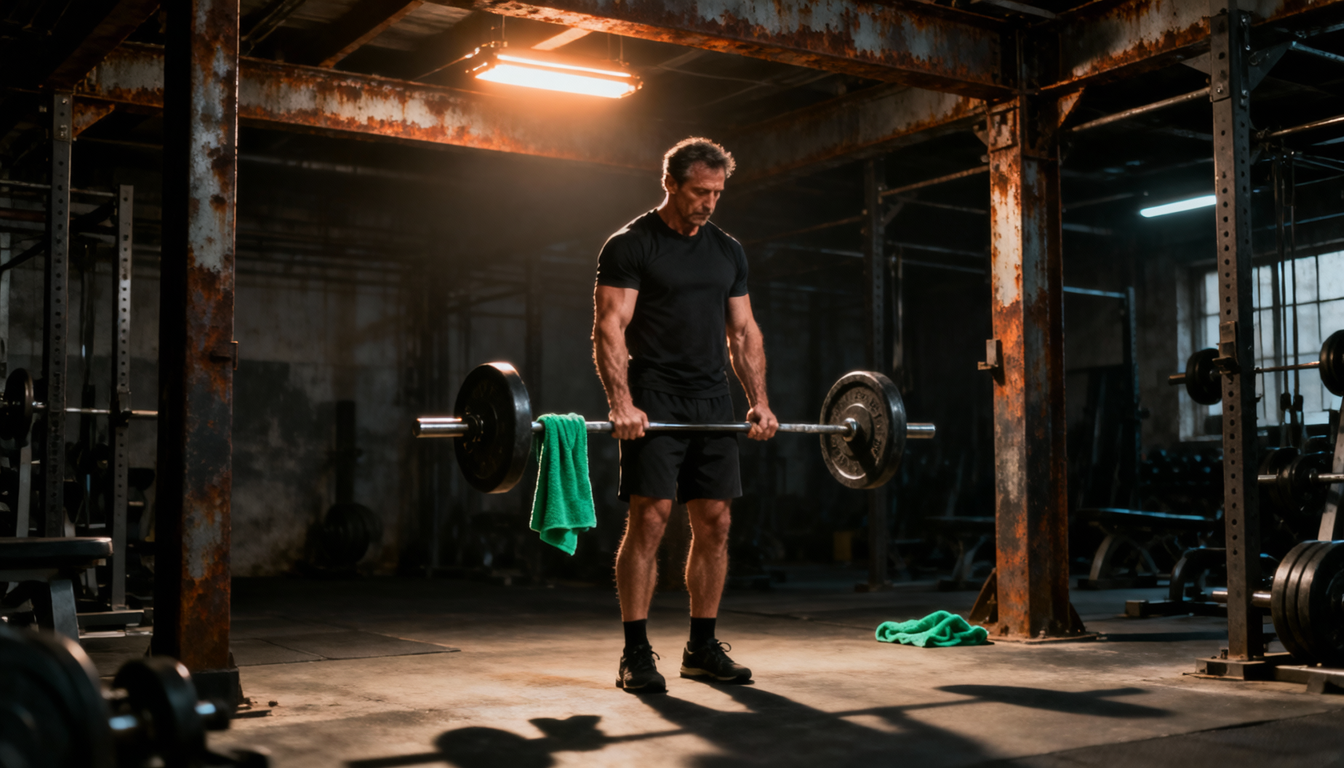
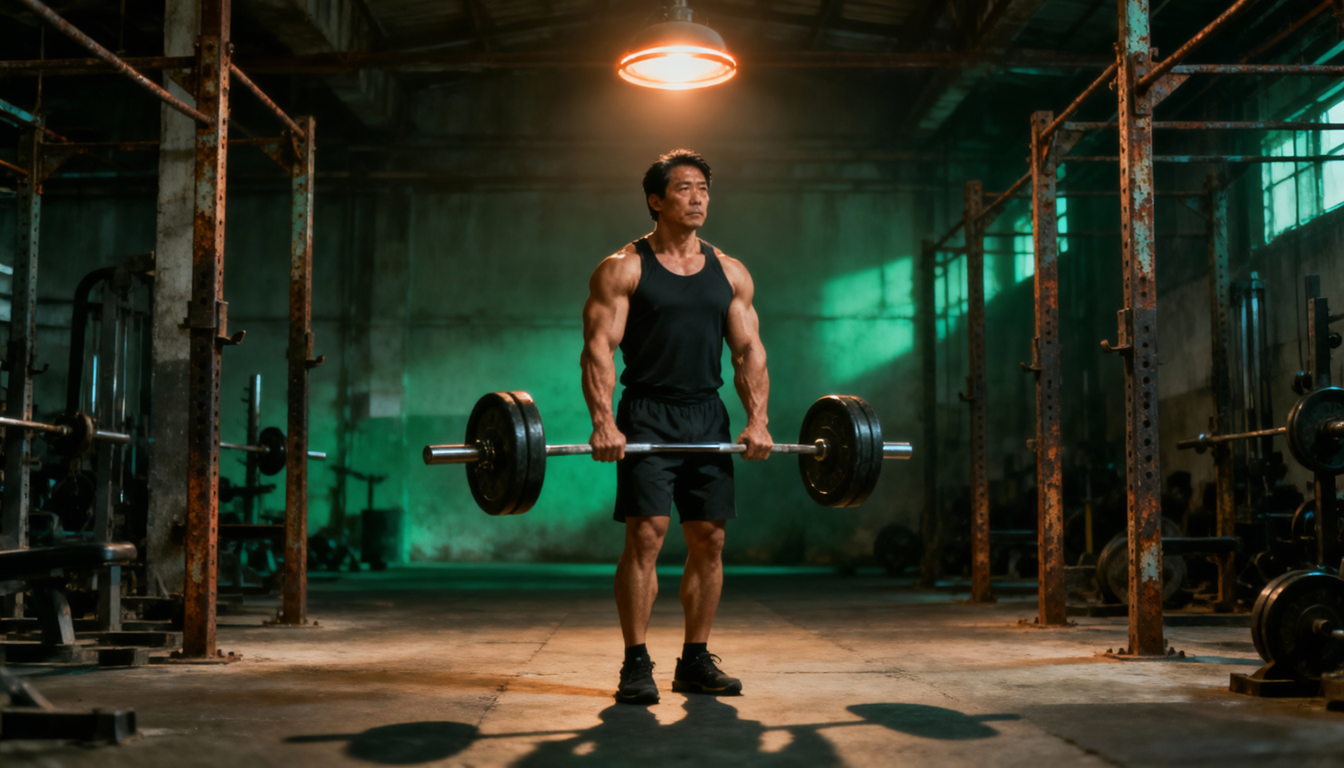
Regenerate start40 cover with mixed-heritage subject; add ethnicity + palette rules to prompt file

diff --git a/scripts/prompts_dashscope.py b/scripts/prompts_dashscope.py
@@ -2,16 +2,30 @@
 
 Style: dark, cinematic, moody, photorealistic-illustrative fitness imagery.
 Each prompt is self-contained (no text overlays — text is rendered by Hugo/CSS).
+
+⚠ ETHNICITY RULE (Vincent, 2026-08): any subject who is a PERSON must be
+drawn as ethnically ambiguous — plausibly Asian, Western, or mixed heritage.
+The audience is men 30-55 across markets (EN + ZH), so no single-ethnicity
+read. Always include phrasing like "mixed East Asian and Western heritage,
+ambiguous ethnicity" on any human subject.
+
+⚠ PALETTE (see traindecade skill): the site is warm editorial (cream/ink/jade),
+NOT navy/crimson. The "hero" prompt below predates that decision and is
+superseded — hero is now a stock photo (static/images/hero.jpg). Do not use
+the navy/crimson "hero" prompt for new art.
 """
 PROMPTS = {
     # Home hero — broad, motivational, "long game" theme
+    # (Superseded: hero is now a static/images/hero.jpg stock photo. Kept for
+    #  reference only — do NOT regenerate from this prompt without updating palette.)
     "hero": (
-        "Cinematic wide shot of a seasoned man in his late 40s, muscular and "
-        "weathered, chalk dust on his hands, standing in a dim industrial gym lit "
-        "by a single dramatic overhead beam of light. Deep navy and charcoal tones, "
-        "crimson rim lighting along his silhouette, volumetric light rays through "
-        "dust, moody chiaroscuro, film grain, epic and quiet determination, "
-        "photorealistic, shallow depth of field, 16:9 composition, no text, no watermark"
+        "Cinematic wide shot of a seasoned man in his late 40s of mixed East "
+        "Asian and Western heritage with ambiguous ethnicity, standing in a dim "
+        "industrial gym lit by a single dramatic overhead beam of light. Deep "
+        "shadow and warm editorial tones, jade green rim lighting along his "
+        "silhouette, volumetric light rays through dust, moody chiaroscuro, film "
+        "grain, epic and quiet determination, photorealistic, shallow depth of "
+        "field, 16:9 composition, no text, no watermark"
     ),
     # Welcome / brand anchor — the decade-long journey
     "welcome": (

diff --git a/content/posts/why-crash-diets-fail.md b/content/posts/why-crash-diets-fail.md
@@ -1,0 +1,74 @@
+---
+title: "Why Crash Diets Fail"
+date: 2026-08-22T00:00:00+08:00
+draft: false
+tags: ["nutrition", "weight loss", "metabolism", "fat loss"]
+description: "Cut to 1,200 calories and the weight comes off fast — then it comes back, usually with more. The metabolic science behind why crash diets rebound, and what actually works instead."
+cover:
+  image: "cover-crash-diet.png"
+  alt: "Why Crash Diets Fail"
+---
+
+The pitch is always the same, and it works every January. *Lose 10 kilograms in 6 weeks. Eat 1,200 calories a day. No exceptions, no excuses.* And for a few weeks, it looks like it works — the number on the scale drops fast, the before-and-after photo gets posted, and the diet industry collects another testimonial.
+
+Then the rebound comes. Quietly at first, then all at once. Within a year or two, most people have regained most of what they lost, and a meaningful number end up heavier than when they started.
+
+The failure was never a lack of discipline. It was biology, running exactly as it's designed to.
+
+## The body doesn't know you're "dieting"
+
+Here's the thing a crash diet never tells you: your body can't tell the difference between a 6-week transformation challenge and a famine. It only sees a sudden, steep shortage of energy — and it responds the way a body evolved to respond to starvation. It defends itself.
+
+That defense works on three fronts, and all three point the same direction: back toward your old weight.
+
+**Your metabolism slows to a crawl.** This is the phenomenon researchers call *adaptive thermogenesis* — the drop in resting metabolic rate that goes beyond what a smaller body would explain. Cut calories hard enough, and your body doesn't just burn less because there's less of you. It burns less because it has *decided to burn less*. It downregulates thyroid hormone, it runs cooler, it economizes everywhere it can.
+
+**Your hunger turns up, not down.** Leptin — the hormone that tells your brain "we have enough stored energy" — drops steeply with every kilogram of fat lost. Ghrelin, the hunger signal, rises. The result is a body that is simultaneously *more hungry* and *less satisfied* by the same meal than it was before the diet.
+
+**Your muscle goes with the fat.** The steeper the deficit, the more of the lost weight is lean tissue rather than fat. You end up smaller but softer — a scaled-down version of the body you were trying to fix.
+
+None of this is failure of willpower. It's a coordinated biological response, and it doesn't switch off when the diet ends.
+
+## The evidence that should scare you (but not into despair)
+
+The best-documented example is the *Biggest Loser* study, and it's worth understanding because it's the cleanest look we have at what extreme dieting actually does to a metabolism.
+
+Fourteen contestants were measured at the end of the competition and again **six years later** (Fothergill et al., 2016). What the researchers found was striking: even after most of the contestants had regained much of the weight, their resting metabolic rate stayed suppressed — about **500 calories a day below** what their body size and composition would predict. The metabolic adaptation was measured at −499 ± 207 kcal/day. Six years. The body had not "reset." It had quietly, permanently, learned to run on a smaller engine.
+
+The hunger side is just as persistent. A landmark study by Sumithran and colleagues (2011, *New England Journal of Medicine*) followed dieters for a full year after a 10-week very-low-energy diet. Twelve months later, their ghrelin was still elevated, their leptin and the satiety hormones PYY and CCK were still suppressed, and their self-reported hunger was still higher than before dieting. A year after the diet was over, the body was *still* campaigning to get the weight back.
+
+And the population data tells the same story. A meta-analysis of long-term weight-loss studies (Anderson et al., 2001) found that more than half of lost weight is typically regained within two years, and more than 80% within five.
+
+That's the villain here — not the person on the diet. It's a system that sells a *loss phase* with no plan for the biological cascade that comes after.
+
+## Why the diet itself is the problem
+
+The uncomfortable truth is that the *speed* of the cut — not the cut itself — is what triggers the cascade. A modest deficit doesn't set off the full famine response. A starvation-level deficit does.
+
+Consider the muscle. A study of calorie-restricted adults (Weiss et al., 2017) found that a ~7% weight loss through diet alone — with no exercise — cost roughly **4% of lower-body lean mass**. The same weight loss done with exercise preserved it almost entirely. The crash diet, almost by definition, skips the part that protects muscle: slow, progressive training.
+
+And the metabolic hit scales with the size of the deficit. Research on adaptive thermogenesis consistently shows that roughly a **10% weight reduction produces about a 15% drop in total daily energy expenditure** — around 375 calories a day for someone eating 2,500. That's not a small detail. That's the gap between "maintaining" and "silently regaining" when the diet ends and normal eating resumes.
+
+The crash diet doesn't fail because you're weak. It fails because it's *designed* to trigger the exact physiology that guarantees rebound.
+
+## What actually works
+
+The honest fix is almost boring, because it's the opposite of the pitch:
+
+- **Cut slow.** A deficit of 200–400 calories a day — enough to lose fat, shallow enough to stay out of famine mode. Think months, not weeks.
+- **Protect the muscle.** Progressive resistance training and adequate protein (around 1.6 g per kilogram) tell your body to burn fat instead of lean tissue.
+- **Plan the phase after the phase.** The loss is only half the job. Maintenance is a *continuation*, not a reward — and it starts while you're still losing.
+
+The people who keep weight off aren't more disciplined than you. They just never asked their body to survive a famine in the first place.
+
+A decade is coming either way. The question is whether you spend it oscillating on a crash-diet loop — or building a body that doesn't need rescuing.
+
+---
+
+## Sources
+
+- **Fothergill E, Guo J, Howard L, et al. (2016)** — "Persistent metabolic adaptation 6 years after 'The Biggest Loser' competition." *Obesity*. Resting metabolic rate remained ~500 kcal/day below expected six years after extreme weight loss, despite substantial weight regain (mean metabolic adaptation −499 ± 207 kcal/day). The metabolic slowdown from crash dieting can persist for years.
+- **Sumithran P, Prendergast LA, Delbridge E, et al. (2011)** — "Long-Term Persistence of Hormonal Adaptations to Weight Loss." *New England Journal of Medicine*. One year after a 10-week very-low-energy diet, ghrelin remained elevated and leptin, PYY, and CCK remained suppressed relative to baseline — hunger stayed amplified, satiety stayed blunted.
+- **Anderson JW, Konz EC, Frederich RC, Wood CL (2001)** — "Long-term weight-loss maintenance: a meta-analysis of US studies." *American Journal of Clinical Nutrition*. More than half of lost weight is typically regained within two years, and more than 80% within five.
+- **Weiss EP, et al. (2017)** — "Effects of Weight Loss on Lean Mass, Strength, Bone, and Aerobic Capacity in Adults." Calorie-restriction-only weight loss (~7%) reduced lower-body lean mass ~4%; matched weight loss with exercise preserved lean mass.
+- **Adaptive thermogenesis (review, StatPearls / NCBI)** — A ~10% body-weight reduction produces roughly a 15% decrease in total daily energy expenditure (~375 kcal/day at a 2,500 kcal intake), driven by calorie restriction rather than exercise-induced weight loss.

diff --git a/content/zh/posts/why-crash-diets-fail.md b/content/zh/posts/why-crash-diets-fail.md
@@ -1,0 +1,74 @@
+---
+title: "为什么激进节食注定失败"
+date: 2026-08-22T00:00:00+08:00
+draft: false
+tags: ["nutrition", "weight loss", "metabolism", "fat loss"]
+description: "把热量砍到 1,200 卡，体重掉得飞快——然后又涨回来，往往还更多。激进节食为何反弹的代谢科学，以及真正有效的方法。"
+cover:
+  image: "cover-crash-diet.png"
+  alt: "为什么激进节食注定失败"
+---
+
+这个话术年年都一样，而且每年一月都屡试不爽：*六周减十公斤，每天只吃 1,200 卡，不许破例、不给借口。* 头几个星期，它看起来确实在起作用——体重秤上的数字掉得飞快，前后对比照发了出去，减重行业又收获一条好评。
+
+然后反弹来了。先是悄无声息，随后一口气涌回来。一到两年之内，大多数人把减掉的体重又涨回了大半，还有相当一部分人比开始时更重。
+
+失败从来不是意志力不够。是生理机制在按它被设计好的方式运转。
+
+## 身体并不知道你在"节食"
+
+激进节食从来不会告诉你一件事：你的身体分不清"六周塑形挑战"和"饥荒"的区别。它只察觉到能量突然、急剧地短缺——于是它就用身体演化出来应对饥饿的方式去应对。它会自卫。
+
+这种自卫在三条战线上同时展开，而且三条都指向同一个方向：回到你原来的体重。
+
+**代谢慢下来。** 这就是研究者所说的*适应性产热*（adaptive thermogenesis）——静息代谢率的下降，超出了"身体变小了"所能解释的范围。热量砍得足够狠，身体烧得少，不只是因为你变小了，而是因为它*决定*要烧得少。它下调甲状腺激素，让机体降温，在每一个能省的地方反复节省。
+
+**饥饿感不降反升。** 瘦素（leptin）——那个告诉大脑"我们储存的能量够用了"的激素——每掉一公斤脂肪就骤降一次。饥饿信号生长激素释放肽（ghrelin）则上升。结果是一个身体，比节食之前*更饿*，同时对同一顿饭*更不满足*。
+
+**肌肉跟着脂肪一起掉。** 热量缺口越陡，减掉的体重里肌肉所占的比例就越高。最后你变小了，却也更松垮——一个缩小版的、你本来想修复的身体。
+
+这些都不是意志力失败。这是一套协调的生理反应，而且节食结束后它并不会关闭。
+
+## 这些证据应当让你警醒（但不必绝望）
+
+记录得最完整的一个例子是《超级减肥王》（The Biggest Loser）研究，值得理解，因为它是我们目前关于极端节食对代谢真实影响的最干净的一份观察。
+
+研究人员在比赛结束时测量了十四名参赛者，并在**六年后**再次测量（Fothergill 等，2016）。结果令人震惊：即便多数参赛者已经涨回了一大部分体重，他们的静息代谢率依然被压制着——大约比其体型与身体成分所预测的水平**每天低 500 卡**。测得的代谢适应为每日 −499 ± 207 卡。六年。身体并没有"复位"。它只是悄悄地、永久地学会了用一台更小的引擎运转。
+
+饥饿那一面同样持久。Sumithran 及其同事（2011，《新英格兰医学杂志》）的一项里程碑式研究，对接受过十周极低热量饮食的节食者进行了整整一年的随访。十二个月后，他们的 ghrelin 仍然偏高，瘦素以及饱腹激素 PYY、CCK 仍然被压低，自我报告的饥饿感仍然高于节食之前。节食结束一年之后，身体*仍在*动员把体重夺回来。
+
+人群数据讲的是同一个故事。一项对长期减重研究的荟萃分析（Anderson 等，2001）发现，减掉的体重通常在两年内涨回一多半，五年内涨回八成以上。
+
+这里的反派不是节食的人，而是那套只售卖"减重阶段"、却对随之而来的生物学连锁反应毫无预案的体系。
+
+## 问题恰恰出在"节食"本身
+
+一个令人不舒服的事实是：触发连锁反应的，是减脂的*速度*，而不是减脂这件事本身。适度的热量缺口不会启动完整的饥荒反应；接近饥饿水平的热量缺口才会。
+
+以肌肉为例。一项对限制热量成年人的研究（Weiss 等，2017）发现，纯靠节食减重约 7%（不运动）会损失大约**4% 的下肢瘦体重**。同样幅度的减重，加入运动则几乎能完整保留。而激进节食，几乎从定义上，就跳过了能保护肌肉的那个环节：缓慢、循序渐进的训练。
+
+代谢上的代价与热量缺口的幅度成正比。关于适应性产热的研究一致显示，**体重下降约 10% 会带来总能量消耗约 15% 的下降**——对一个每天摄入 2,500 卡的人来说，大约是每天 375 卡。这不是个能忽略的细枝末节。这正是节食结束、恢复正常饮食后，"维持"与"悄悄反弹"之间的那道鸿沟。
+
+激进节食之所以失败，不是因为你意志薄弱。是因为它*被设计成*去触发那套必然导致反弹的生理机制。
+
+## 真正有效的做法
+
+诚实的答案几乎无聊，因为它与那些话术正好相反：
+
+- **减得慢一点。** 每天 200–400 卡的热量缺口——足够减脂，又浅到不会进入饥荒模式。按"月"来想，别按"周"来想。
+- **保住肌肉。** 循序渐进的抗阻训练加上足量蛋白质（每公斤体重约 1.6 克），会告诉身体去燃烧脂肪，而不是燃烧瘦组织。
+- **为阶段之后的阶段做打算。** 减重只是任务的一半。维持是一种*延续*，而不是一份奖励——而且它在减重期就该开始。
+
+那些能长期保持体重的人，并不比你更自律。他们只是从没让自己的身体去经历一场饥荒。
+
+十年无论如何都会到来。问题只在于：你是要在这条激进节食的循环里反复震荡——还是去打造一具不需要被"拯救"的身体。
+
+---
+
+## 資料來源
+
+- **Fothergill E, Guo J, Howard L, 等（2016）**——《超级减肥王》比赛六年后的持续代谢适应，*Obesity*。即便在体重大幅回升之后，静息代谢率仍比预期低约每日 500 卡（平均代谢适应 −499 ± 207 卡/日）。激进节食带来的代谢减速可持续数年。
+- **Sumithran P, Prendergast LA, Delbridge E, 等（2011）**——减重后激素适应的长期持续性，*New England Journal of Medicine*。十周极低热量饮食结束一年后，ghrelin 仍偏高，瘦素、PYY、CCK 仍相对基线被压低——饥饿感持续放大，饱腹感持续减弱。
+- **Anderson JW, Konz EC, Frederich RC, Wood CL（2001）**——长期减重维持：美国研究的荟萃分析，*American Journal of Clinical Nutrition*。减掉的体重通常在两年内涨回一多半，五年内涨回八成以上。
+- **Weiss EP 等（2017）**——减重对成年人瘦体重、力量、骨骼与有氧能力的影响。纯节食减重约 7% 使下肢瘦体重下降约 4%；同样幅度的减重配合运动则能保留瘦体重。
+- **适应性产热（综述，StatPearls/NCBI）**——体重下降约 10% 会导致总能量消耗下降约 15%（在 2,500 卡摄入下约每日 375 卡），主要由限制热量而非运动性减重所驱动。
